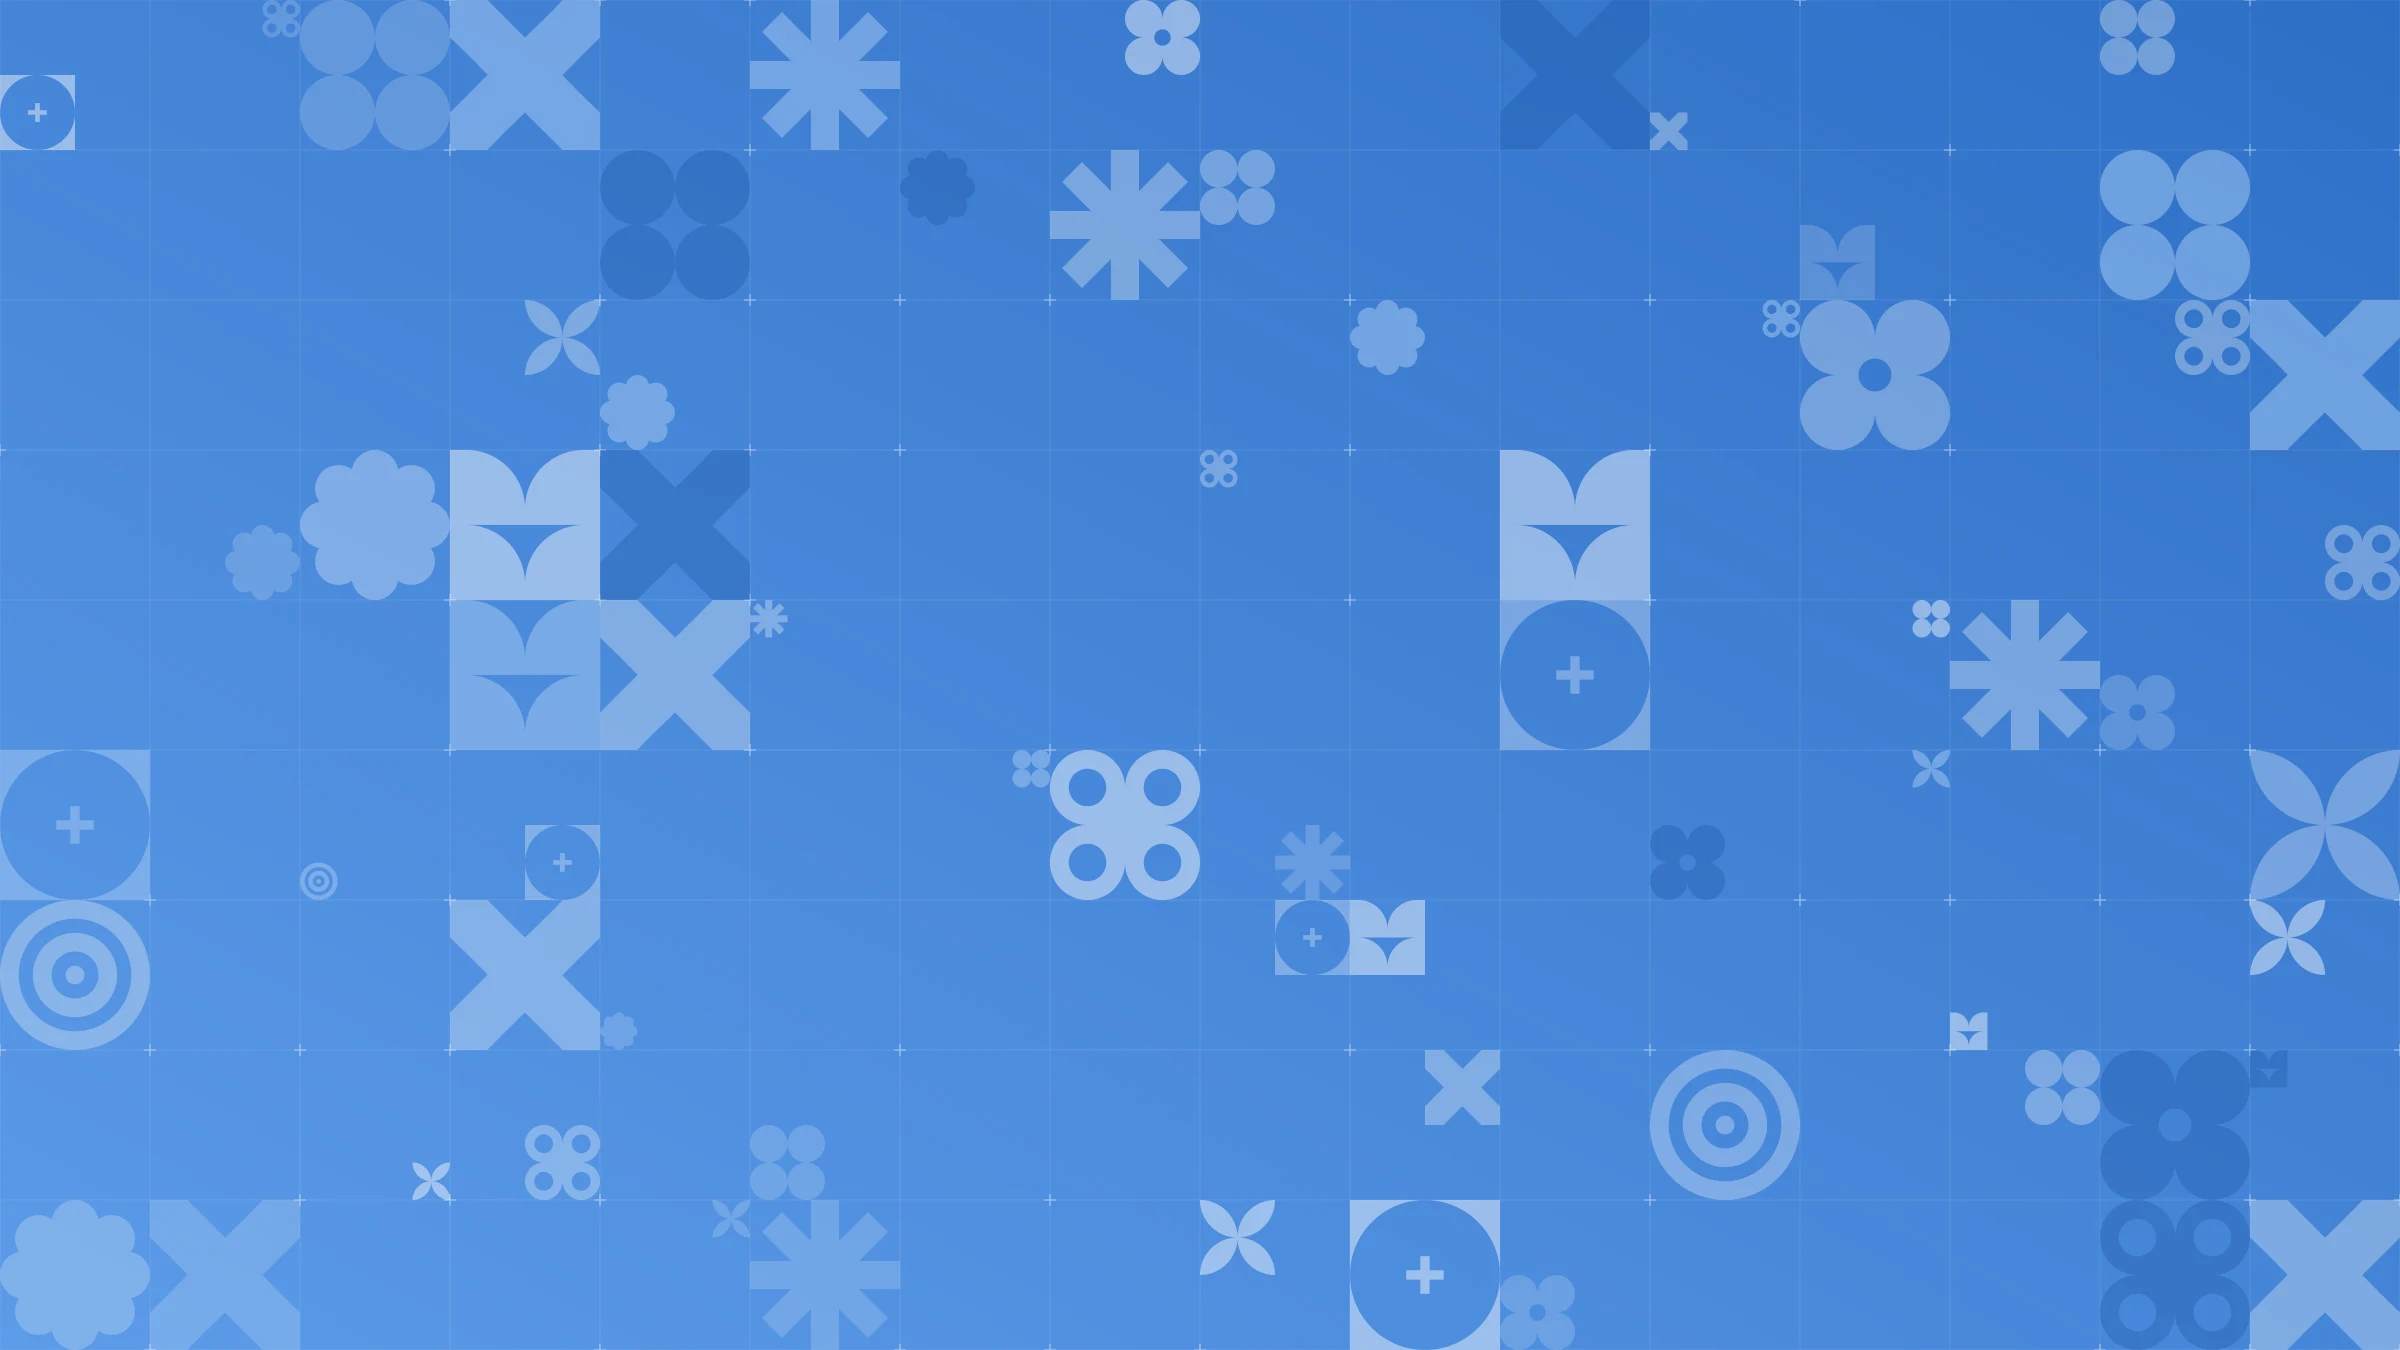
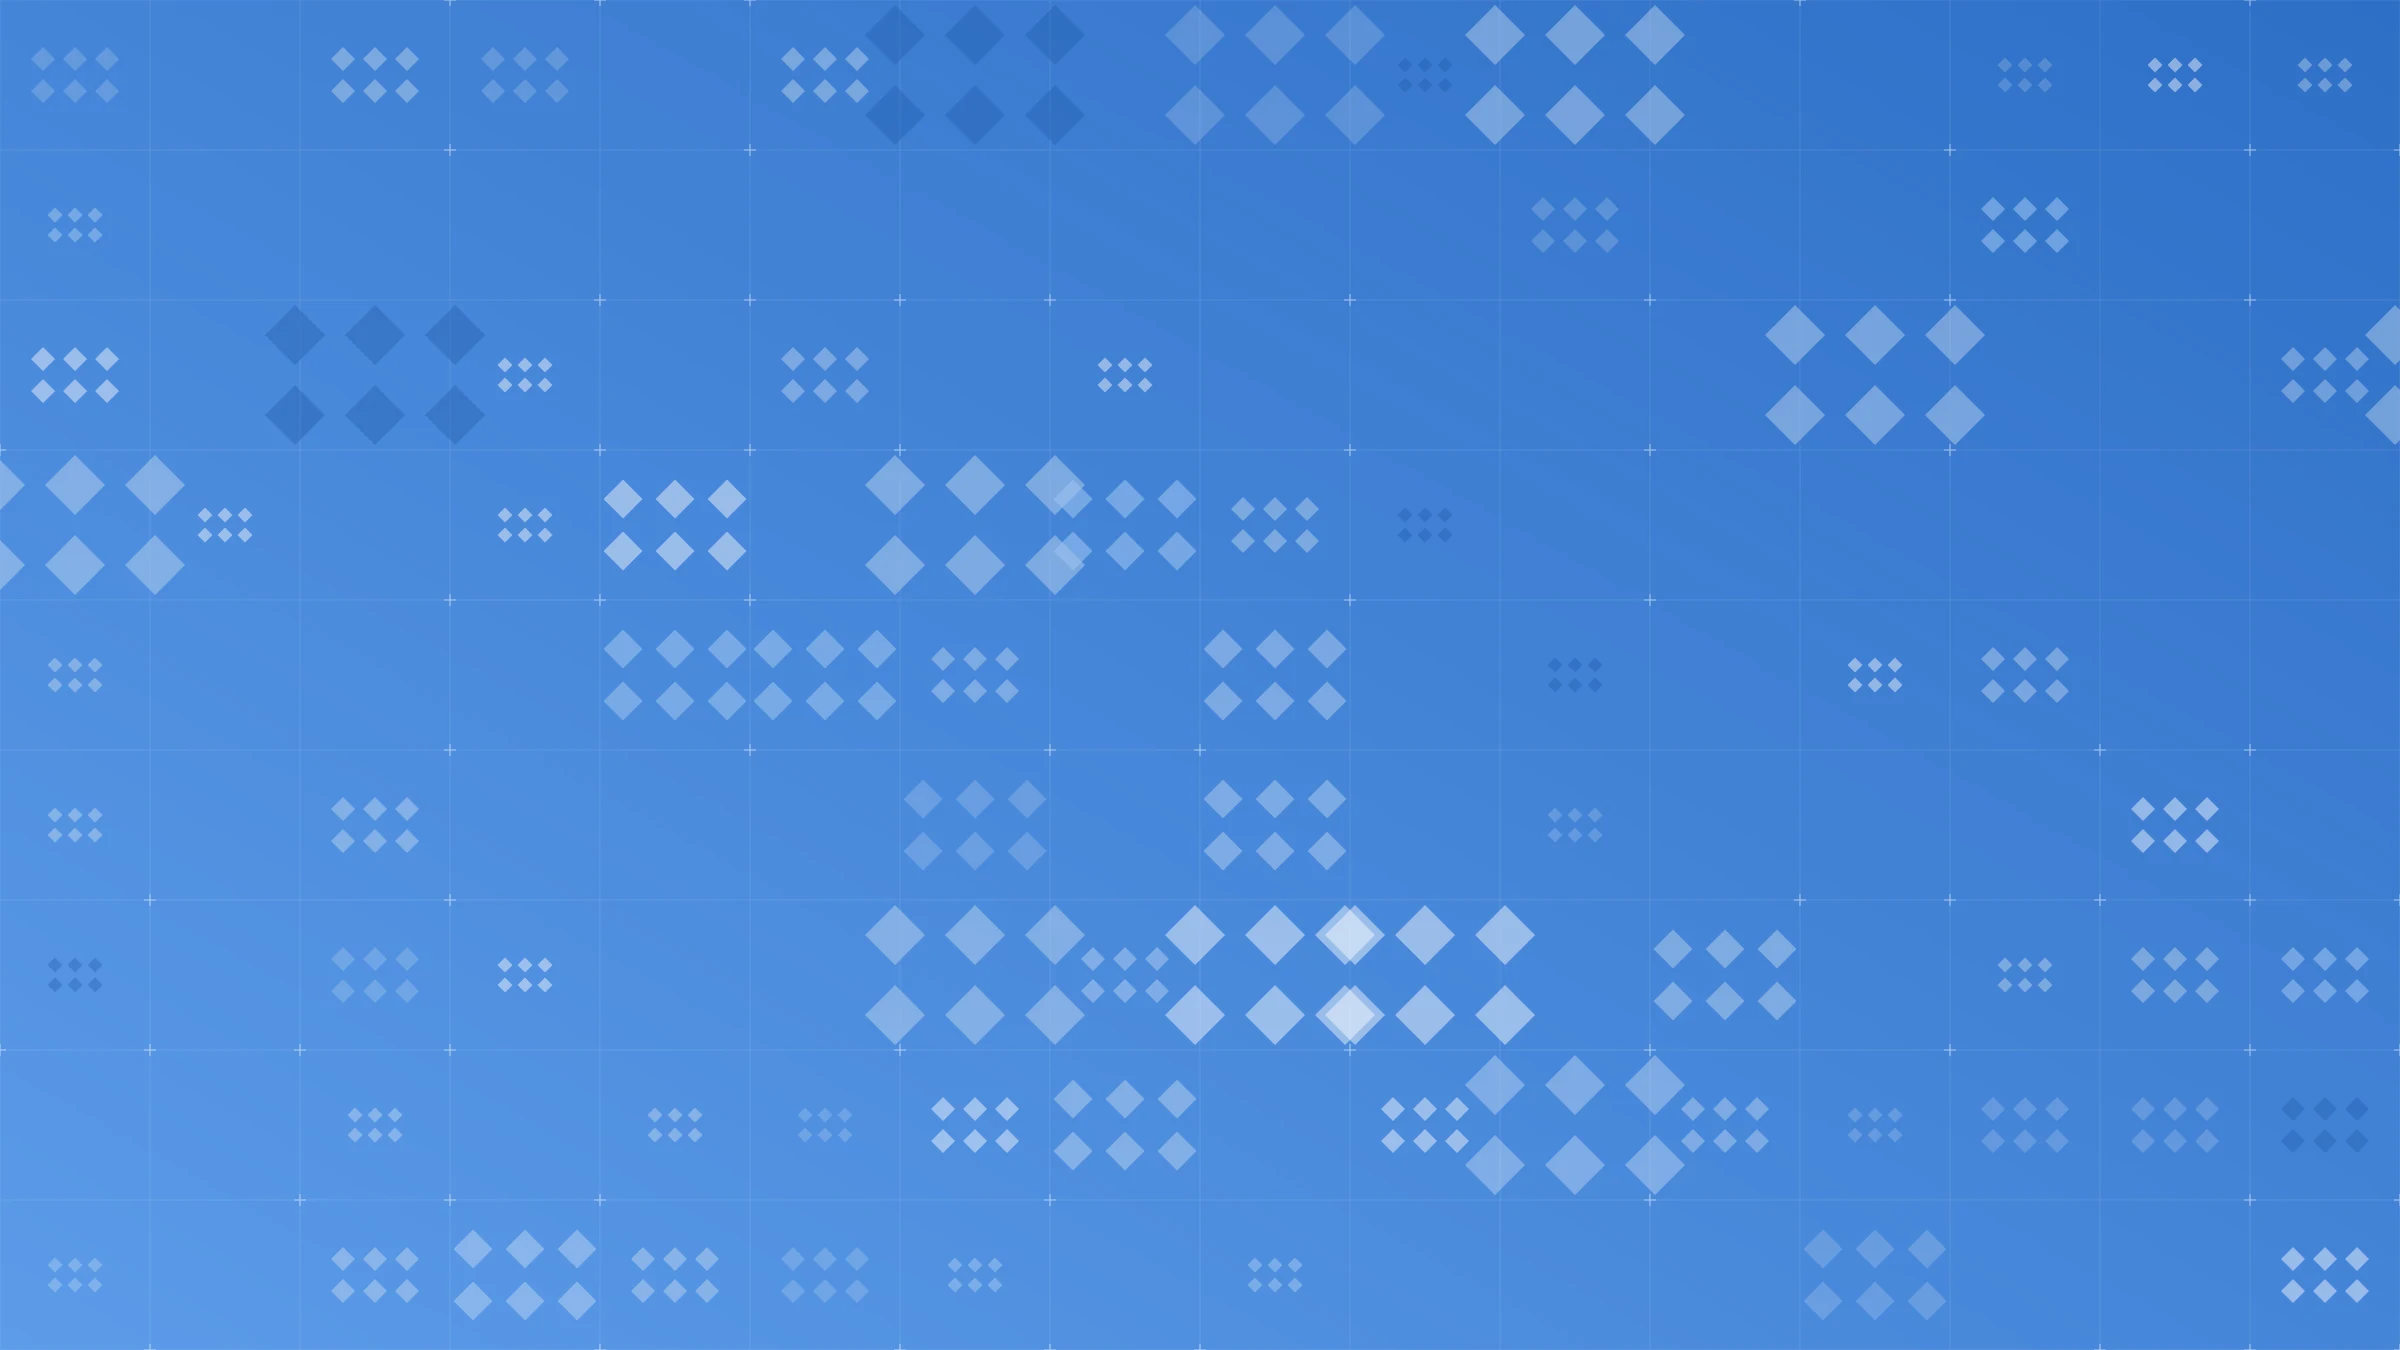
Painel de normas: fundo com o glifo dos seis losangos (o das etiquetas) sobre azul vivido

diff --git a/painel-normas.html b/painel-normas.html
@@ -23,7 +23,7 @@
 <link rel="preconnect" href="https://fonts.googleapis.com">
 <link href="https://fonts.googleapis.com/css2?family=IBM+Plex+Sans+Condensed:wght@300;400;500;600;700&family=IBM+Plex+Mono:wght@300;400;500;600;700&family=IBM+Plex+Serif:wght@300;400;500;600;700&display=swap" rel="stylesheet">
 <link rel="stylesheet" href="css/style.css?v=115">
-<link rel="stylesheet" href="css/painel-normas.css?v=29">
+<link rel="stylesheet" href="css/painel-normas.css?v=30">
 <meta name="description" content="Andamento das normas ISO de sistemas de gestão, sustentabilidade e segurança: estágio, comitê, revisão sistemática e certificados por país. Fonte: ISO Open Data e ISO Survey.">
 <script>document.documentElement.classList.add('js');window.addEventListener('load',function(){setTimeout(function(){if(!document.querySelector('.in-view')){var n=document.querySelectorAll('.rot-sec,.sec,.content>*');for(var i=0;i<n.length;i++){n[i].classList.add('in-view');}}},1200);});</script>
 </head>

diff --git a/css/painel-normas.css b/css/painel-normas.css
@@ -399,6 +399,6 @@
    img/fundo-painel-glifos.webp (_ferramentas/fundo_glifos.py, glifos do mosaico de símbolos da Ideal Metrics sobre azul vívido
    #2E6FC7 → #5C9BE8). Guardados: pássaro, mosaico claro e manchas (trocar a url) */
 @media (min-width:981px){
-  .pn{--vidro:rgba(255,255,255,.5);background:url(../img/fundo-painel-glifos.webp) center/cover no-repeat}
+  .pn{--vidro:rgba(255,255,255,.5);background:url(../img/fundo-painel-glifos.webp?v=2) center/cover no-repeat}
   .pn-cab,.pn-lado,.pn-main{-webkit-backdrop-filter:blur(4px) saturate(1.2);backdrop-filter:blur(4px) saturate(1.2)}
 }

diff --git a/_ferramentas/fundo_glifos.py b/_ferramentas/fundo_glifos.py
@@ -1,26 +1,21 @@
-"""Fundo do Painel de normas com os glifos da Ideal Metrics (img/fundo-painel-glifos.webp).
-27/10/2026, Leandro: «tente os glifos, tente fazer um azul mais vívido de fundo». Os dez glifos (asterisco, flor, trevo, X,
-alvo, tulipa etc.) vêm do mosaico de símbolos `Ideal Metrics/mosaicos/parede-mosaico-simbolos-01.svg`, lidos do arquivo,
-nunca redesenhados. Rodar: python _ferramentas/fundo_glifos.py  (semente fixa)."""
+"""Fundo do Painel de normas com o glifo da Ideal Metrics (img/fundo-painel-glifos.webp).
+27/10/2026, Leandro: «tente os glifos, tente fazer um azul mais vívido de fundo» e, em seguida, «quando digo glifo, quero
+dizer esse»: o GLIFO é o símbolo dos seis losangos (2 fileiras de 3) das etiquetas Guia e Navegação (js/gaveta.js), não os
+símbolos do mosaico. Rodar: python _ferramentas/fundo_glifos.py  (semente fixa)."""
 import random, re
 from pathlib import Path
 import fitz
 from PIL import Image, ImageChops
 
 RAIZ = Path(__file__).resolve().parent.parent
-FONTE = RAIZ.parent / 'mosaicos' / 'parede-mosaico-simbolos-01.svg'
 W, H, C = 2400, 1350, 150
 FUNDO = ('#2E6FC7', '#5C9BE8')                       # azul vívido, diagonal
 TONS = [('#FFFFFF', .30), ('#FFFFFF', .18), ('#D3E2F2', .40), ('#9FC5F0', .55), ('#FFFFFF', .45), ('#1F57A8', .35)]
 
-def glifos():
-    ds = []
-    for d in re.findall(r'<path d="([^"]+)"', FONTE.read_text(encoding='utf-8')):
-        if d not in ds and not d.startswith(('M 240 -1', 'M 230 240')): ds.append(d)   # fora a grade e as cruzes do mural
-    return ds
+GLIFO = 'M3 0l3 3-3 3-3-3zM11 0l3 3-3 3-3-3zM19 0l3 3-3 3-3-3zM3 8l3 3-3 3-3-3zM11 8l3 3-3 3-3-3zM19 8l3 3-3 3-3-3z'   # viewBox 22 × 14, igual ao js/gaveta.js
 
 def main():
-    random.seed(33); G = glifos()
+    random.seed(33)
     p = [f'<svg xmlns="http://www.w3.org/2000/svg" width="{W}" height="{H}" viewBox="0 0 {W} {H}">',
 ]   # o degradê é feito no PIL: o MuPDF não pinta gradiente de SVG
     grade = ''.join(f'M{x} 0V{H}' for x in range(0, W + 1, C)) + ''.join(f'M0 {y}H{W}' for y in range(0, H + 1, C))
@@ -29,11 +24,12 @@ def main():
     p.append(f'<path d="{cruz}" stroke="#FFFFFF" stroke-opacity=".45" stroke-width="1.2" fill="none"/>')
     for gx in range(W // C + 1):
         for gy in range(H // C + 1):
-            if random.random() > .42: continue
-            tam = random.choice([1, 1, .5, .5, .25])          # célula inteira, meia ou um quarto (como no mural)
-            lado = C * tam; ox = gx * C + random.choice([0, C - lado]) ; oy = gy * C + random.choice([0, C - lado])
+            if random.random() > .45: continue
+            k = random.choice([2.5, 2.5, 4, 4, 6.5, 10])    # glifo de 55 a 220 px de largura
+            gw, gh = 22 * k, 14 * k
+            ox = gx * C + (C - gw) / 2; oy = gy * C + (C - gh) / 2
             cor, a = random.choice(TONS)
-            p.append(f'<path d="{random.choice(G)}" transform="translate({ox} {oy}) scale({lado / 256:.4f})" fill-rule="evenodd" fill="{cor}" fill-opacity="{a}"/>')
+            p.append(f'<path d="{GLIFO}" transform="translate({ox:.1f} {oy:.1f}) scale({k})" fill="{cor}" fill-opacity="{a}"/>')
     p.append('</svg>')
     doc = fitz.open(stream=''.join(p).encode(), filetype='svg')
     pix = doc[0].get_pixmap(alpha=True)

diff --git a/CLAUDE.md b/CLAUDE.md
@@ -98,7 +98,7 @@ Regra da casa: o que o Leandro corrige numa página vira padrão do site inteiro
 - **Deslize na navegação entre botões (27/10/2026, «a navegação entre botões deve ser sempre com aquele efeito de deslise»):** nas abas `.pn-abas` e nas normas do mapa `.mp-sel`, a placa escura do escolhido é um `span.desliza` (posto pelo JS `desliza()`), que desliza do botão anterior para o novo em .38 s; o botão escolhido fica transparente com texto creme. Na fileira que rola, o escolhido é trazido para a vista. Vale para toda fileira de botões de navegação nova. Globo: para de girar só com o mouse SOBRE o globo (teste de raio, não a área toda) e gira mais rápido (.009 grau/ms desde o 2º pedido de 27/10, «poderia girar um pouco mais rápido?»).
 - **Fundo em mosaico (27/10/2026, referência mozayk.design; «figuras muito mais claras, muito mais próximas da cor do fundo… mais figuras, com outras formas»):** no computador o fundo do painel é `img/fundo-painel-mosaico.webp`, gerado por `_ferramentas/fundo_mosaico.py` (semente fixa): base `#DDE8F4`, células de 150 px, 55% delas com uma figura (quadrado, triângulo, losango, círculo, quarto e meio círculo, faixa, quadrado menor) em seis tons a poucos pontos do fundo (`#E9F0F8 #F3F7FB #FFFFFF #D2E0F0 #C9DAEE #E4ECF6`), grade branca fina e cruzes «+» azuis a 35%. Recusados no caminho: losangos coloridos, mosaico com blocos desfocados e tinta (poluído), fundo escuro. O vidro das placas ficou com desfoque de 7 px e 58% de branco, para as figuras aparecerem através delas. O `fundo-painel-vidro.webp` antigo fica no repositório sem uso.
 - **Fundo com o pássaro (27/10/2026, «colocar o pássaro da Ideal Metrics de fundo, mais claro, iluminado como o globo… o resto do fundo com um azul mais claro»):** RECUSADO no mesmo dia («não ficou legal o pássaro»), guardado: `img/fundo-painel-passaro.webp`, gerado por `_ferramentas/fundo_passaro.py` a partir de `img/passaro-ideal-m.svg` (só a silhueta, nunca redesenhada): degradê diagonal `#D3E3F4` → `#A6C3E3`, pássaro branco com luz radial do alto à esquerda (até `#C8DBEF`), halo branco, sombra `#6E93BC` embaixo à direita e fio de luz na borda de cima. Vidro das placas a 42% de branco e 7 px de desfoque. 2º ajuste no mesmo dia («mais nítido, mais parecido com a cor de fundo, globo mais transparente na área marítima»): pássaro sem halo, feito do próprio fundo clareado (35% de branco no alto à esquerda, 12% embaixo), sombra curta (6/9 px, desfoque 5) e fio de luz de 3 px; desfoque do vidro em 3 px; oceano do globo com brilho de 22% (antes 42%) e 4% no meio. Guardados para voltar: mosaico claro (`fundo-painel-mosaico.webp`, commit `baab338`) e manchas (`fundo-painel-vidro.webp`); trocar a url no último bloco do CSS.
-- **Fundo com os glifos (27/10/2026, «não ficou legal o pássaro, tente os glifos, tente fazer um azul mais vívido»):** VIGENTE no computador desde então: `img/fundo-painel-glifos.webp`, gerado por `_ferramentas/fundo_glifos.py`, que LÊ os dez glifos de `Ideal Metrics/mosaicos/parede-mosaico-simbolos-01.svg` (asterisco, flor, trevo, X, alvo, tulipa, cruz no círculo…), sem redesenhar; degradê azul vívido `#2E6FC7` → `#5C9BE8`, células de 150 px, 42% com glifo em célula inteira, meia ou um quarto, em branco e azuis claros com transparência, grade branca a 12% e cruzes. Vidro a 50% de branco e 4 px de desfoque. Armadilhas do gerador: o MuPDF não pinta gradiente de SVG (degradê feito no PIL) e devolve pixel pré-multiplicado (abrir como `RGBa`). O fundo do pássaro foi recusado e fica guardado.
+- **Fundo com o GLIFO (27/10/2026, «tente os glifos… azul mais vívido» e, logo depois, «quando digo glifo, quero dizer esse», mostrando os seis losangos):** O GLIFO da Ideal Metrics é o símbolo dos SEIS LOSANGOS (2 fileiras de 3, `viewBox 0 0 22 14`) das etiquetas Guia e Navegação (`js/gaveta.js`), NÃO os símbolos do mosaico de parede. VIGENTE no computador: `img/fundo-painel-glifos.webp` (`?v=2` no CSS), gerado por `_ferramentas/fundo_glifos.py`: degradê azul vívido `#2E6FC7` → `#5C9BE8`, células de 150 px, 45% com um glifo centrado de 55 a 220 px de largura, em branco e azuis claros com transparência, grade branca a 12% e cruzes. Vidro a 50% de branco e 4 px de desfoque. Armadilhas do gerador: o MuPDF não pinta gradiente de SVG (degradê feito no PIL) e devolve pixel pré-multiplicado (abrir como `RGBa`).
 - **Atualização semanal:** a rotina agendada «Ballots ISO/ABNT» (segunda, 9h) roda `python _ferramentas/painel_normas.py` (sem `--cache`) e commita os dois JSON de `dados/`. Push continua só quando o Leandro mandar.
 - Menu: item «Painel de normas ISO» na coluna Estudos e pesquisa aplicada (`blocos.py`, ícone `painel`). Páginas de serviço ligadas às normas em `PAGINA` no gerador; a ficha da norma mostra o link «Serviço da Ideal Metrics nesta norma» quando existe.
 
